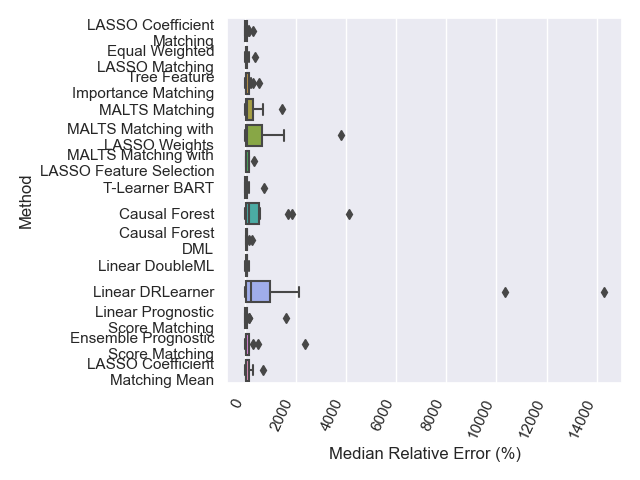
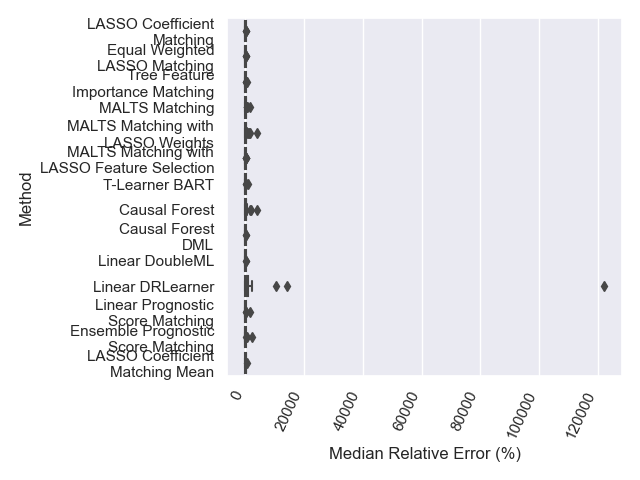
lessening the malts max

diff --git a/Experiments/acic_error_and_runtime/cate_error.py b/Experiments/acic_error_and_runtime/cate_error.py
@@ -116,8 +116,9 @@ split_strategy = lcm.gen_skf  # save split strategy to use for all other methods
 with open(f'{save_folder}/split.pkl', 'wb') as f:
     pickle.dump(split_strategy, f)
 
-lasso_malts_init = lcm_to_malts_weights(lcm, [c for c in df_data.columns if c not in ['Y', 'T']], categorical_to_dummy)
 if run_malts:
+    lasso_malts_init = lcm_to_malts_weights(lcm, [c for c in df_data.columns if c not in ['Y', 'T']],
+                                            categorical_to_dummy)
     method_name = 'MALTS Matching'
     start = time.time()
     with warnings.catch_warnings(record=True) as warning_list:
@@ -160,28 +161,28 @@ if run_malts:
     lasso_weights_malts_m_opt = m.M_opt_list
     print()
 
-lasso_feature_selection = weights_to_feature_selection(
-                             lasso_malts_init, [c for c in df_data.columns if c not in ['Y', 'T']])
-method_name = 'MALTS Matching with LASSO Feature Selection'
-start = time.time()
-with warnings.catch_warnings(record=True) as warning_list:
-    m = pymalts.malts_mf('Y', 'T', data=df_data, discrete=binary + categorical, categorical=categorical,
-                         k_tr=malts_k_train, k_est=k_est_linear,
-                         n_splits=n_splits, estimator='single_linear', smooth_cate=False,
-                         gen_skf=split_strategy,
-                         trim_features=lasso_feature_selection,
-                         random_state=random_state)
-times[method_name] = time.time() - start
-cate_df = m.CATE_df
-cate_df = cate_df.rename(columns={'avg.CATE': 'Est_CATE'})
-cate_df['True_CATE'] = df_true['TE'].to_numpy()
-cate_df['Relative Error (%)'] = np.abs(
-    (cate_df['Est_CATE'] - cate_df['True_CATE']) / np.abs(cate_df['True_CATE']).mean())
-cate_df['Method'] = [method_name for i in range(cate_df.shape[0])]
-df_err = pd.concat([df_err, cate_df[['Method', 'True_CATE', 'Est_CATE', 'Relative Error (%)']].copy(deep=True)])
-print(f'{method_name} complete: {time.time() - start}')
-summarize_warnings(warning_list, method_name)
-print()
+    lasso_feature_selection = weights_to_feature_selection(
+                                 lasso_malts_init, [c for c in df_data.columns if c not in ['Y', 'T']])
+    method_name = 'MALTS Matching with LASSO Feature Selection'
+    start = time.time()
+    with warnings.catch_warnings(record=True) as warning_list:
+        m = pymalts.malts_mf('Y', 'T', data=df_data, discrete=binary + categorical, categorical=categorical,
+                             k_tr=malts_k_train, k_est=k_est_linear,
+                             n_splits=n_splits, estimator='single_linear', smooth_cate=False,
+                             gen_skf=split_strategy,
+                             trim_features=lasso_feature_selection,
+                             random_state=random_state)
+    times[method_name] = time.time() - start
+    cate_df = m.CATE_df
+    cate_df = cate_df.rename(columns={'avg.CATE': 'Est_CATE'})
+    cate_df['True_CATE'] = df_true['TE'].to_numpy()
+    cate_df['Relative Error (%)'] = np.abs(
+        (cate_df['Est_CATE'] - cate_df['True_CATE']) / np.abs(cate_df['True_CATE']).mean())
+    cate_df['Method'] = [method_name for i in range(cate_df.shape[0])]
+    df_err = pd.concat([df_err, cate_df[['Method', 'True_CATE', 'Est_CATE', 'Relative Error (%)']].copy(deep=True)])
+    print(f'{method_name} complete: {time.time() - start}')
+    summarize_warnings(warning_list, method_name)
+    print()
 
 # generic_malts = pymalts.malts('Y', 'T', data=df_data, discrete=binary+categorical, k=malts_k_train)
 # print('MALTS Objective Lossess:')

diff --git a/Experiments/cate_error/cate_error.py b/Experiments/cate_error/cate_error.py
@@ -272,19 +272,25 @@ def cate_error_test(dataset, n_splits, dataset_config, methods_config, k_est_mea
                 print(f'GenMatch complete: {time.time() - start}')
 
         if 'prognostic' in methods:
-            method_name = 'Prognostic Score Matching'
+            method_name = 'Linear Prognostic Score Matching'
             start = time.time()
-            cate_est_prog, _, _ = prognostic.prognostic_cv('Y', 'T', df_dummy_data, k_est=k_est_mean, gen_skf=split_strategy,
-                                                           n_splits=n_splits)
+            with warnings.catch_warnings(record=True) as warning_list:
+                cate_est_prog, c_mg, t_mg = prognostic.prognostic_cv('Y', 'T', df_dummy_data, method='linear',
+                                                                     k_est=k_est_linear, est_method='linear_pruned',
+                                                                     gen_skf=split_strategy,
+                                                                     random_state=random_state)
             times[method_name] = time.time() - start
             df_err_prog = pd.DataFrame()
             df_err_prog['Method'] = [method_name for i in range(cate_est_prog.shape[0])]
-            df_err_prog['Relative Error (%)'] = np.abs((cate_est_prog['avg.CATE'].to_numpy() -
-                                                        df_true['TE'].to_numpy()) / np.abs(df_true['TE']).mean())
+            df_err_prog['Relative Error (%)'] = np.abs(
+                (cate_est_prog['avg.CATE'].to_numpy() - df_true['TE'].to_numpy()) / np.abs(df_true['TE']).mean())
             df_err_prog['Iter'] = iter
             df_err_prog['True_CATE'] = df_true['TE'].to_numpy()
             df_err_prog['Est_CATE'] = cate_est_prog['avg.CATE'].to_numpy()
-            df_err = df_err.append(df_err_prog[['Method', 'True_CATE', 'Est_CATE', 'Relative Error (%)', 'Iter']])
+            df_err = pd.concat(
+                [df_err, df_err_prog[['Method', 'True_CATE', 'Est_CATE', 'Relative Error (%)', 'Iter']].copy(deep=True)])
+            print(f'{method_name} complete: {time.time() - start}')
+            print()
             if print_progress:
                 print(f'{method_name} complete: {time.time() - start}')
 

diff --git a/Experiments/cate_error/run.py b/Experiments/cate_error/run.py
@@ -11,7 +11,7 @@ k_est_mean = 15
 k_est_linear = 60
 
 datasets = [
-    # 'dense_continuous',
+    'dense_continuous',
     # 'dense_discrete',
     # 'dense_mixed',
     # 'polynomials',
@@ -24,7 +24,7 @@ datasets = [
     # 'friedman',
     # 'ihdp',
     # 'acic_2018',
-    'acic_2019',
+    # 'acic_2019',
     # 'news'
 ]
 
@@ -36,36 +36,36 @@ all_acic_2019_files = [3]
 
 
 methods_config = {
-    # 'linear_coef_matching': {'double_model': [False], 'n_repeats': 1, 'params': None,
-    #                          'methods': [['linear_pruned', False]]},
+    'linear_coef_matching': {'double_model': [False], 'n_repeats': 1, 'params': None,
+                             'methods': [['linear_pruned', False]]},
     # 'tree_imp_matching': True,
     # 'malts': {'methods': ['linear']},
     # 'manhatten': {'methods': ['mean', 'linear']},
     # 'manhatten_pruned': {'params': None, 'methods': ['mean', 'linear']},
     # 'propensity': None,
     # 'genmatch': None,
-    # 'prognostic': None,
+    'prognostic': None,
     # 'bart': None,
     # 'causal_forest': None
-    'doubleml': None,
-    'drlearner': None
+    # 'doubleml': None,
+    # 'drlearner': None
 }
 
 for data in datasets:
     dataset_config = {'n_train': 0}
     if 'dense' in data:
-        n_splits = 6
+        n_splits = 3
         dataset_config['num_samples'] = 3000
         if 'continuous' in data:
-            dataset_config['imp_c'] = 50
-            dataset_config['unimp_c'] = 150
+            dataset_config['imp_c'] = 10
+            dataset_config['unimp_c'] = 190
             dataset_config['imp_d'] = 0
             dataset_config['unimp_d'] = 0
         elif 'discrete' in data:
             dataset_config['imp_c'] = 0
             dataset_config['unimp_c'] = 0
-            dataset_config['imp_d'] = 15
-            dataset_config['unimp_d'] = 10
+            dataset_config['imp_d'] = 150
+            dataset_config['unimp_d'] = 100
         elif 'mixed' in data:
             dataset_config['imp_c'] = 5
             dataset_config['unimp_c'] = 10

diff --git a/Experiments/acic_error_and_runtime/plotting/errors.py b/Experiments/acic_error_and_runtime/plotting/errors.py
@@ -155,6 +155,7 @@ sns.set_context("paper")
 sns.set_style("darkgrid")
 sns.set(font_scale=1)
 sns.boxplot(data=relative_errors, x="Relative Median Error to Top Method (%)", y="Method", order=order)
+plt.xlim([0,250])
 plt.xticks(rotation=65, horizontalalignment='right')
 plt.tight_layout()
 plt.savefig(f'plots/acic_cate_relative_errors_by_method{plot_name}.png')
